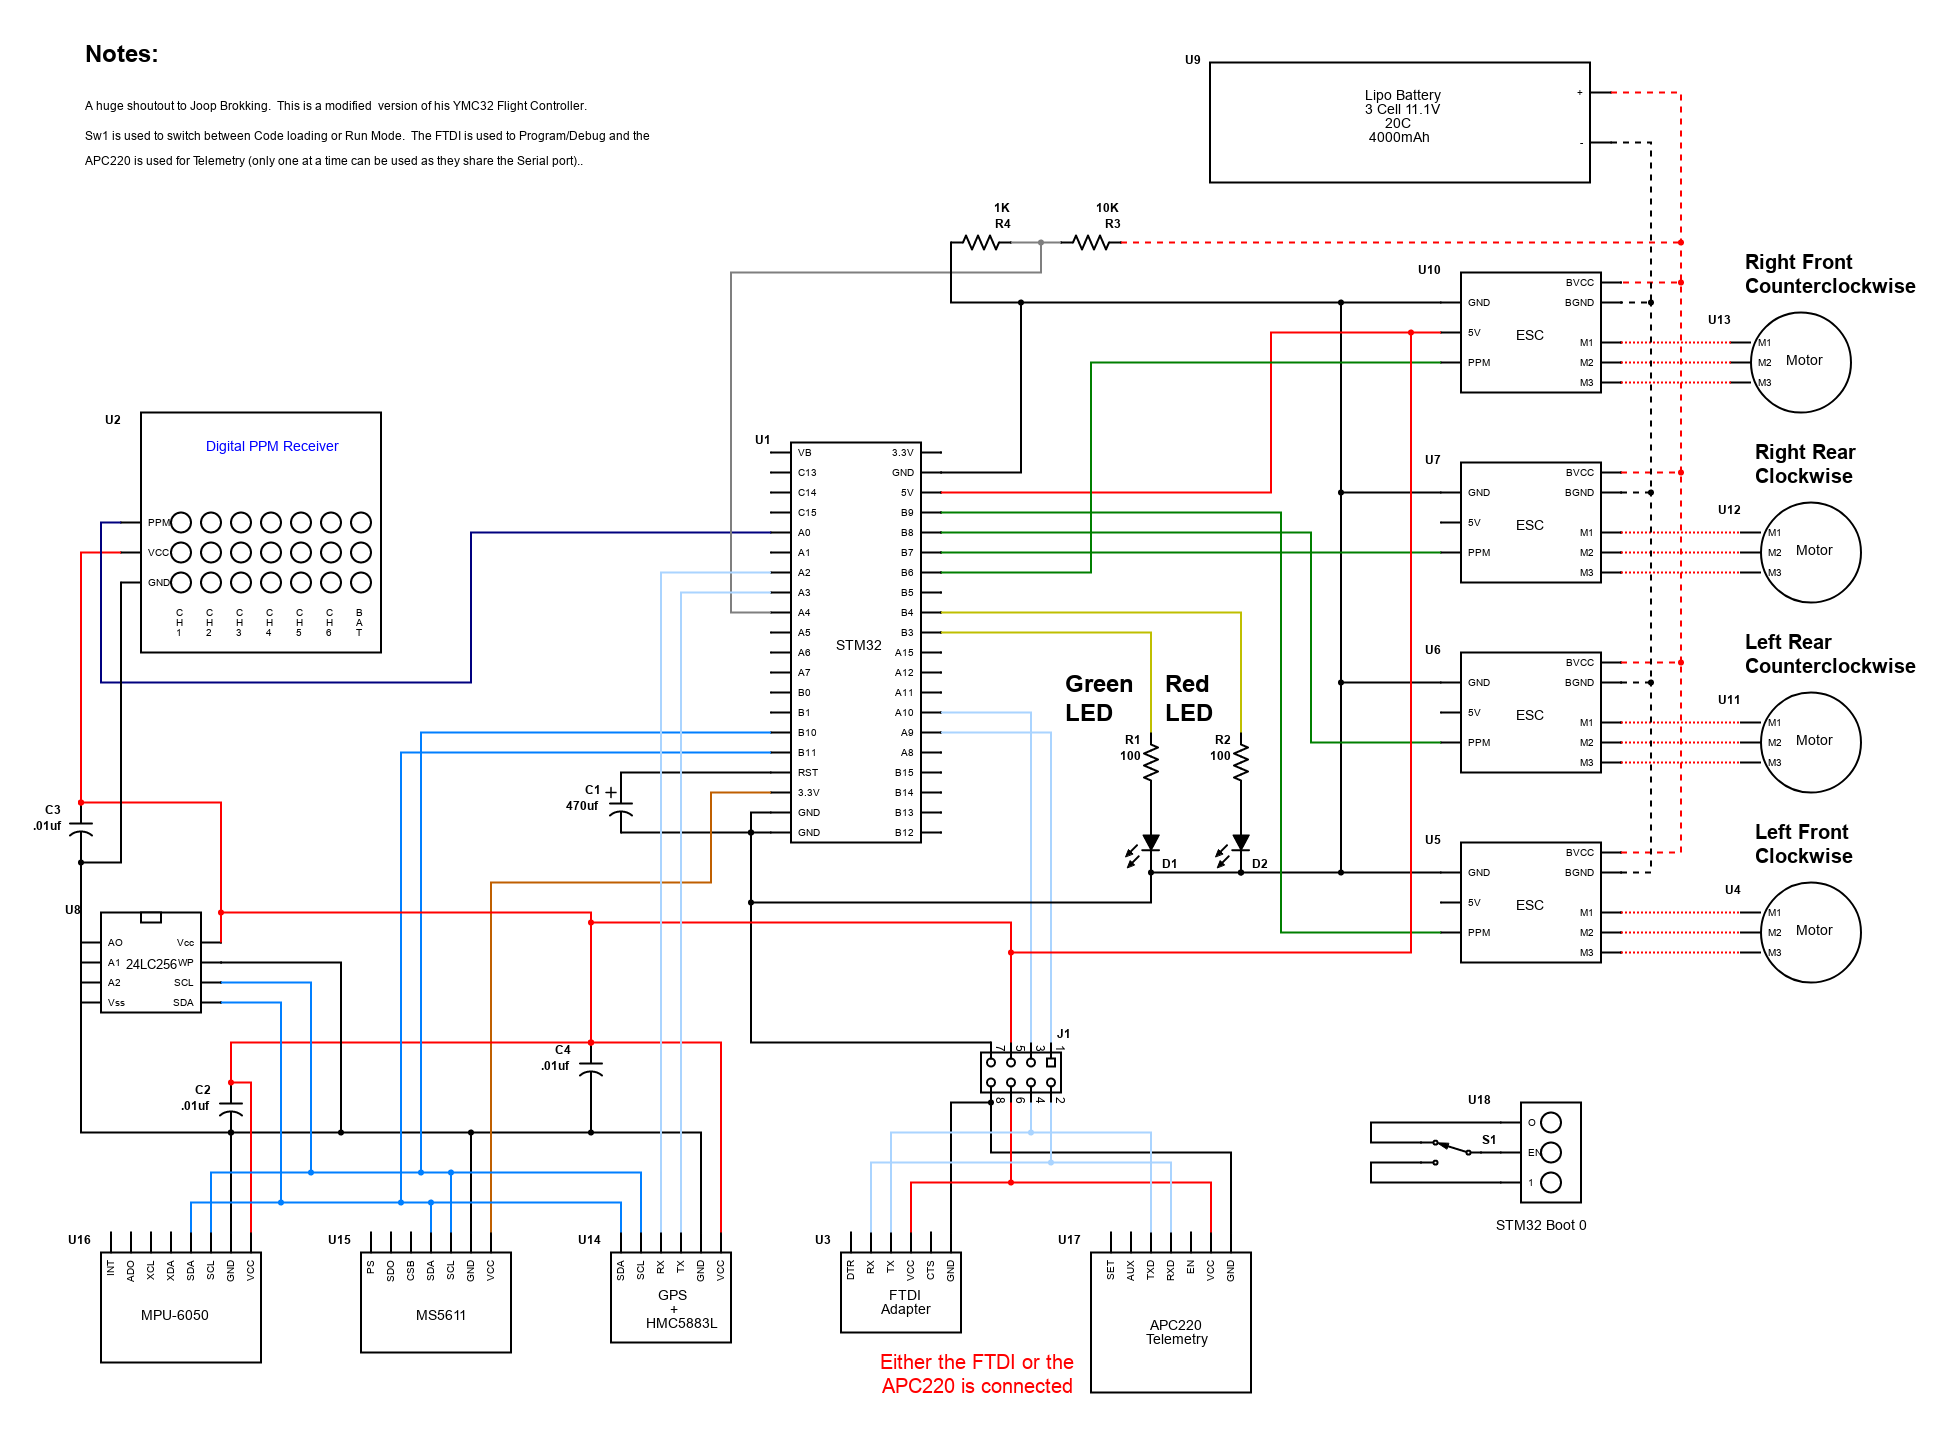
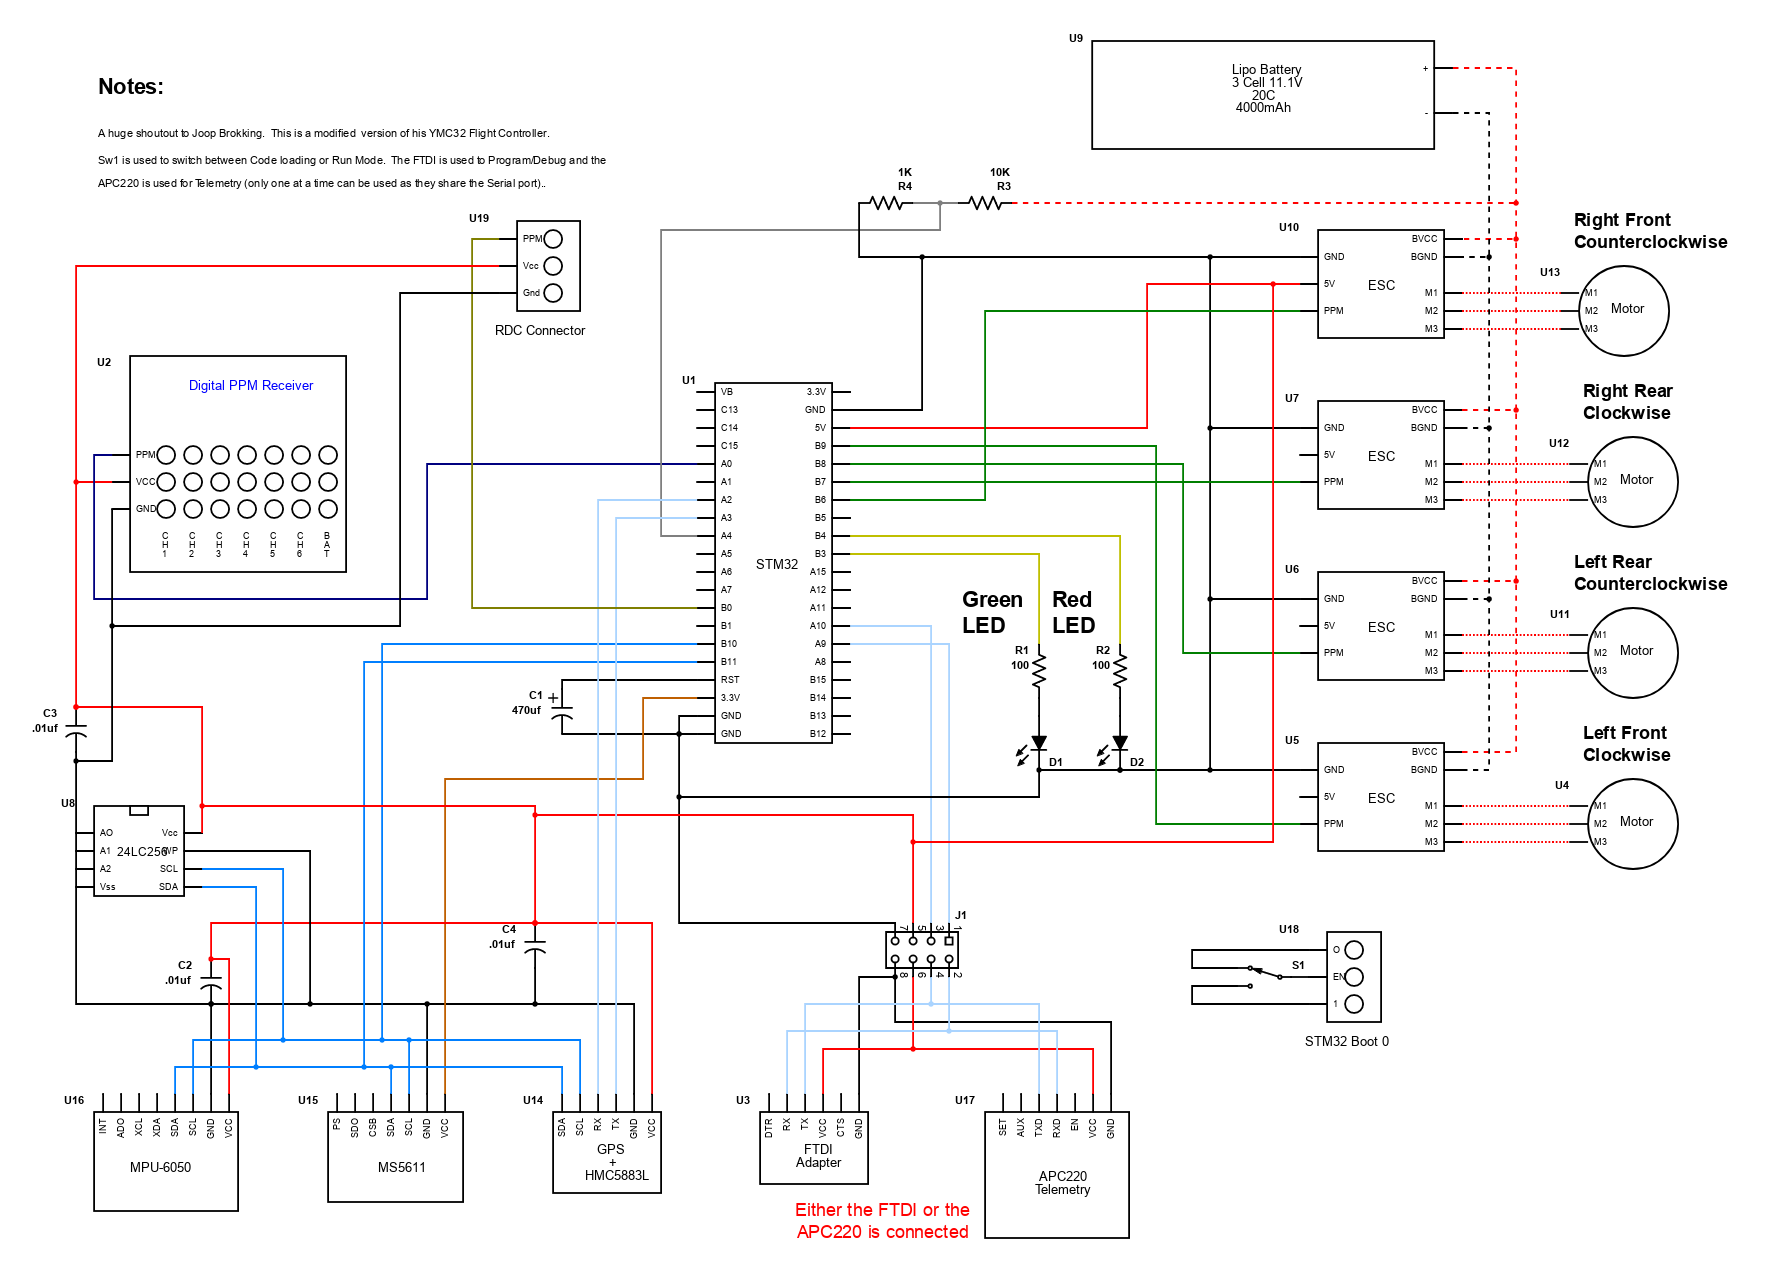
Update Notes, added RDC feature.

diff --git a/webpage.html b/webpage.html
@@ -93,17 +93,22 @@
             }
             div.sysinfobutton {
                 position: absolute;
-                top: 285px;
+                top: 365px;
                 left: 664px;
             }
             div.beepbutton {
                 position: absolute;
-                top: 325px;
+                top: 405px;
                 left: 664px;
             }
             div.takeoffbutton {
                 position: absolute;
-                top: 285px;
+                top: 365px;
+                left: 825px;
+            }
+            div.rdcbutton {
+                position: absolute;
+                top: 405px;
                 left: 825px;
             }
             .pidbuttonoff {
@@ -138,6 +143,17 @@
                 cursor: pointer;
                 text-align: center;
             }
+            .togglesysinfo {
+                border: solid;
+                border-color: black;
+                background-color: Blue;
+                color: white;
+                padding: 5px 5px;
+                width: 150px;
+                font-size: 12px;
+                cursor: pointer;
+                text-align: center;
+            }
             .beepbuttonoff {
                 border: solid;
                 border-color: black;
@@ -160,7 +176,7 @@
                 cursor: pointer;
                 text-align: center;
             }
-            .togglesysinfo {
+            .sendrdc {
                 border: solid;
                 border-color: black;
                 background-color: Blue;
@@ -391,11 +407,14 @@
             <div id="beepbutton" class="beepbutton">
                 <button type="button" id="beep" class="beepbuttonoff">Test Beep</button>
             </div>
+            <div id="sysinfobutton" class="sysinfobutton">
+                <button type="button" name="0" class="togglesysinfo" onclick="toggleinfo()">Toggle System Info</button>
+            </div>
             <div id="takeoffbutton" class="takeoffbutton">
                 <button type="button" name="50" class="toggletakeoff" onclick="sendctrlcommand(name, 'TTC')">Toggle Manual Take Off</button>
             </div>
-            <div id="sysinfobutton" class="sysinfobutton">
-                <button type="button" name="0" class="togglesysinfo" onclick="toggleinfo()">Toggle System Info</button>
+            <div id="rdcbutton" class="rdcbutton">
+                <button type="button" name="50" class="sendrdc" onclick="sendctrlcommand(name, 'RDC')">Remote Drop Command</button>
             </div>
         </div>
 

diff --git a/README.md b/README.md
@@ -1,16 +1,15 @@
 # Arduino-Drone-YMC32-C
 Modified Version of Joop Brokking's YMC32 Autonomous Quadcopter.  Huge thank you to Joop Brokking for his hard work, great videos (seriously great videos) and ongoing inspiration.
 
-I added an 24LC256 IC2 EEPROM to save the calibration parameters, debug data and waypoints, modified PID parameters, etc..
-
-I enhance the telemetry system to use two-way communications via serial port.  The new telemetry interface allows me to change the PID tuning parameters using user supplied floating point values, send debug data, etc.
+I added an 24LC256 IC2 EEPROM to save the calibration parameters, debug data, waypoints, modified PID parameters, etc..
 
 I added some noise reduction capacitors and delayed boot capacitor, this ensures all IC2 devices are booted before the STM32.
 
 I added a switch, so I change the boot mode without having to move the jumper, my fingers are too big!
 
+I enhance the telemetry system to use two-way communications via serial port.  The new telemetry interface allows me to change the PID tuning parameters with user supplied floating point values, change system variables and send debug data etc. 
 The telemetry receiver was moved from and Arduino UNO to an MRK1010.  The MRK1010 allows me to have a WiFi interface, so I can use a Laptop or Iphone while interacting with the YMC32.  The webpage.html is javascript and is compressed and base64 encoded to save space on the MKR1010.  I create a YouTube video (I'm no Joop that's for sure, but it gets the job done) a while back to show you how to create the file for the Arduino.  The Link is:
-https://www.youtube.com/watch?v=oKCXiYc311A&t=149s - skip to about 1:18.
+https://www.youtube.com/watch?v=oKCXiYc311A&t=149s - Fast forward to around 1 minute and 18 seconds.
 
-
+Added the RDC (Remote Drop Command) feature.  This option allows me to control an external servo, when triggered via the RDC Button, the YMC32-C will open its storage door and release its payload.  For summer the payload is several parachute guys for the grandchildren and 4th of July it's ground snaps!
 
